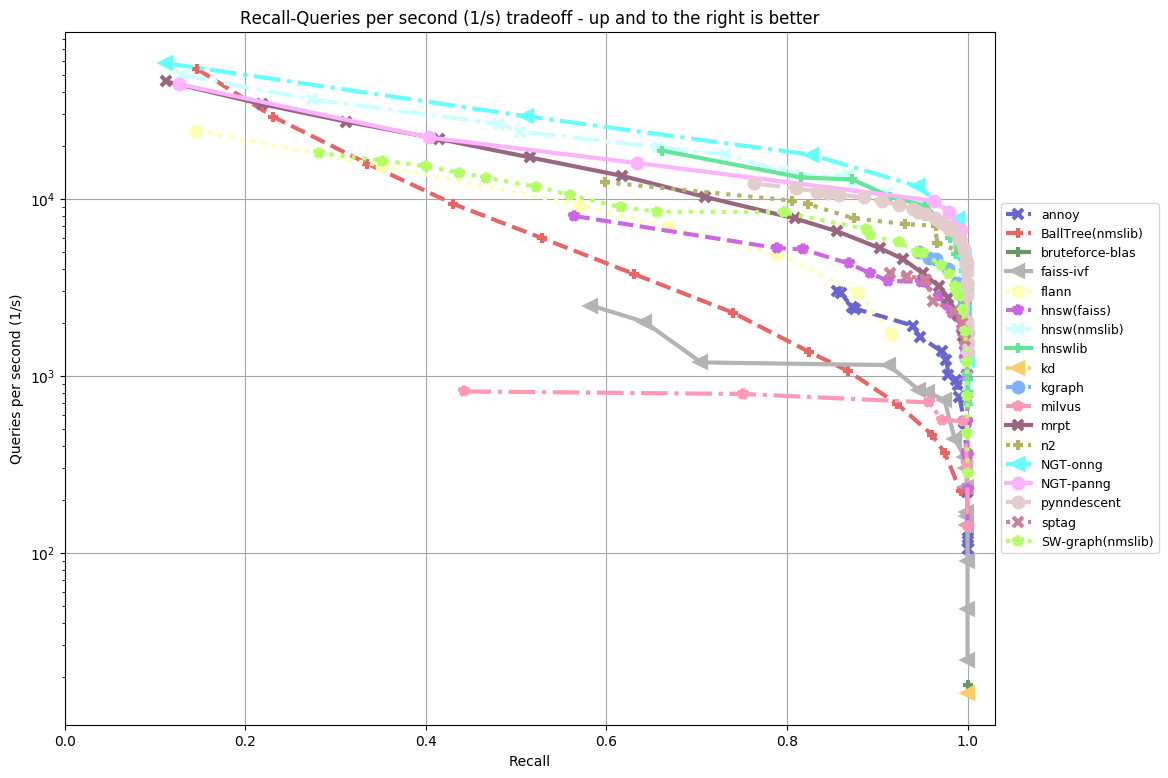
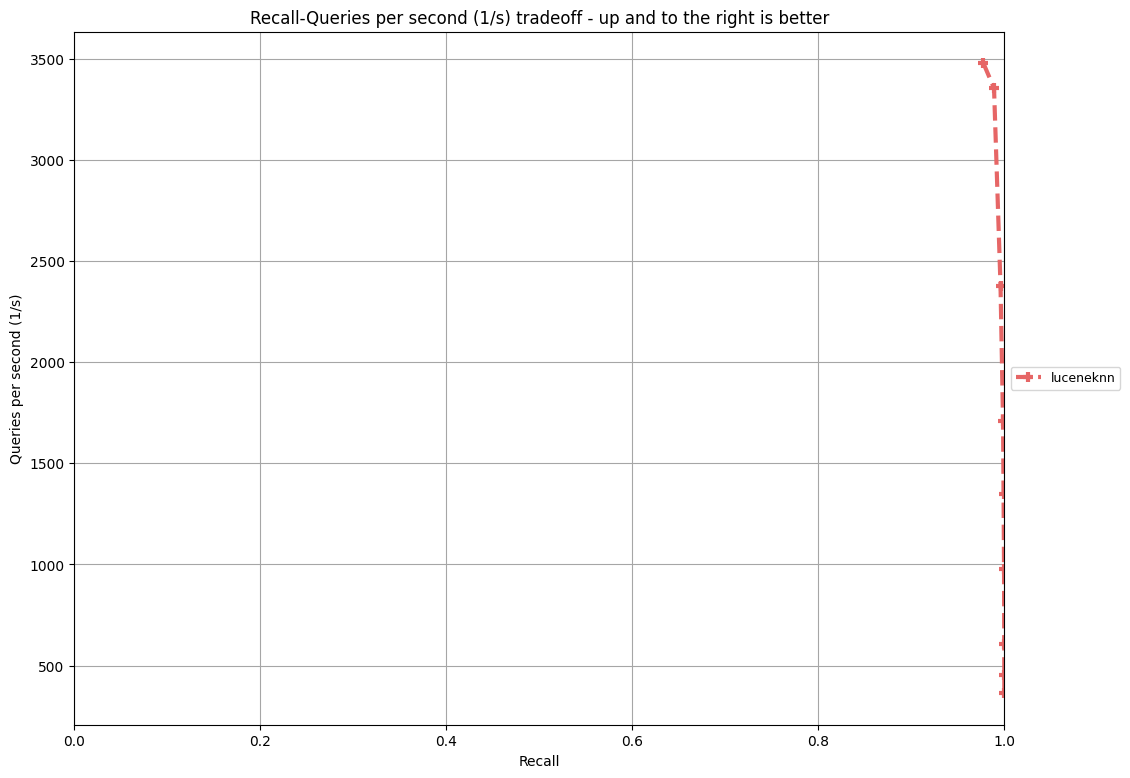
Upgrade to lucene 9.4, address PR comments

diff --git a/ann_benchmarks/algorithms/luceneknn.py b/ann_benchmarks/algorithms/luceneknn.py
@@ -13,15 +13,15 @@ from java.nio.file import Paths
 from org.apache.lucene.store import FSDirectory
 from org.apache.lucene.search import KnnVectorQuery, IndexSearcher
 from org.apache.lucene.index import IndexWriter, IndexWriterConfig, VectorSimilarityFunction, DirectoryReader
-from org.apache.lucene.codecs.lucene91 import Lucene91Codec, Lucene91HnswVectorsFormat
+from org.apache.lucene.codecs.lucene94 import Lucene94Codec, Lucene94HnswVectorsFormat
 from org.apache.lucene.document import Document, FieldType, KnnVectorField, StoredField
 
 from ann_benchmarks.algorithms.base import BaseANN
 
 
-class Codec(Lucene91Codec):
+class Codec(Lucene94Codec):
     """
-    Custom codec so that the appropriate Lucene91 codec can be returned with the configured M and efConstruction
+    Custom codec so that the appropriate Lucene94 codec can be returned with the configured M and efConstruction
     """
     def __init__(self, M, efConstruction):
         super(Codec, self).__init__()
@@ -29,7 +29,7 @@ class Codec(Lucene91Codec):
         self.efConstruction = efConstruction
 
     def getKnnVectorsFormatForField(self):
-        Lucene91HnswVectorsFormat(self.M, self.efConstruction)
+        Lucene94HnswVectorsFormat(self.M, self.efConstruction)
 
 
 class PyLuceneKNN(BaseANN):
@@ -81,13 +81,14 @@ class PyLuceneKNN(BaseANN):
         iw.close()
         self.searcher = IndexSearcher(DirectoryReader.open(self.dir))
 
-    def set_query_arguments(self, fanout):
-        self.fanout = fanout
+    def set_query_arguments(self, ef_const):
+        self.name = f"luceneknn-{self.dimension}-{self.param['M']}-{self.param['efConstruction']}-{ef_const}"
+        self.ef_const = ef_const
 
     def query(self, q, n):
         if self.metric == 'angular':
             q = q / np.linalg.norm(q)
-        return self.run_knn_query(n + self.fanout, n, q.tolist())
+        return self.run_knn_query(n + self.ef_const, n, q.tolist())
 
     def prepare_batch_query(self, X, n):
         if self.metric == 'angular':
@@ -99,7 +100,7 @@ class PyLuceneKNN(BaseANN):
         self.res = []
         append = self.res.append
         n = self.topK
-        num_candidates = self.topK + self.fanout
+        num_candidates = self.topK + self.ef_const
         for q in self.queries:
             append(self.run_knn_query(num_candidates=num_candidates, n=n, q=q))
 
@@ -116,5 +117,5 @@ class PyLuceneKNN(BaseANN):
         if self.metric == 'angular':
             X = sklearn.preprocessing.normalize(X, axis=1, norm='l2')
         X = X.tolist()
-        num_candidates = n + self.fanout
+        num_candidates = n + self.ef_const
         self.res = pool.map(lambda q: self.run_knn_query(num_candidates=num_candidates, n=n, q=q), X)
